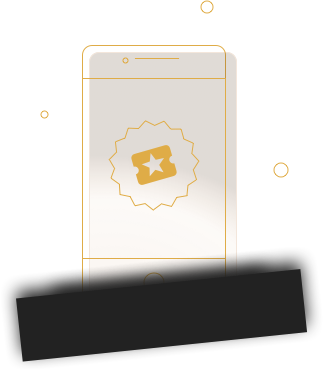
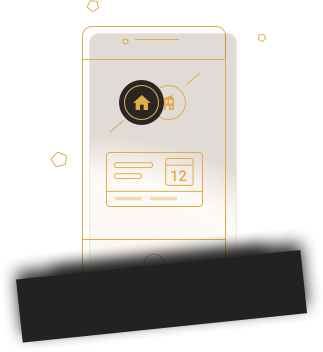
Mobile fixes

diff --git a/mobile/src/pages/+auth/auth.component.html b/mobile/src/pages/+auth/auth.component.html
@@ -6,9 +6,7 @@
           <img src="assets/img/onboarding/step1.png">
           <h2>Escaneá los códigos QR</h2>
           <p>
-              En nuestra microcervecería la prioridad es el
-              medio ambiente. Conocé cuán fuerte es
-              nuestro compromiso.
+              Escanea un codigo QR con o sin cuenta
           </p>
       </ion-slide>
 
@@ -16,9 +14,7 @@
           <img src="assets/img/onboarding/step2.png">
           <h2>Canjeá tus puntos</h2>
           <p>
-              En nuestra microcerveceria la prioridad es el
-              medioambiente. Conocé cuán fuerte es
-              nuestro compromiso.
+              Canjea tus codigos por distintos tipos de premios
           </p>
       </ion-slide>
 
@@ -26,9 +22,8 @@
           <img src="assets/img/onboarding/step3.png">
           <h2>Competi por premios</h2>
           <p>
-              En nuestra microcerveceria la prioridad es el
-              medioambiente. Conocé cuán fuerte es
-              nuestro compromiso.
+              Cuantos mas puntos sumes mejores seran los premios que
+              puedas canjear
           </p>
       </ion-slide>
 
